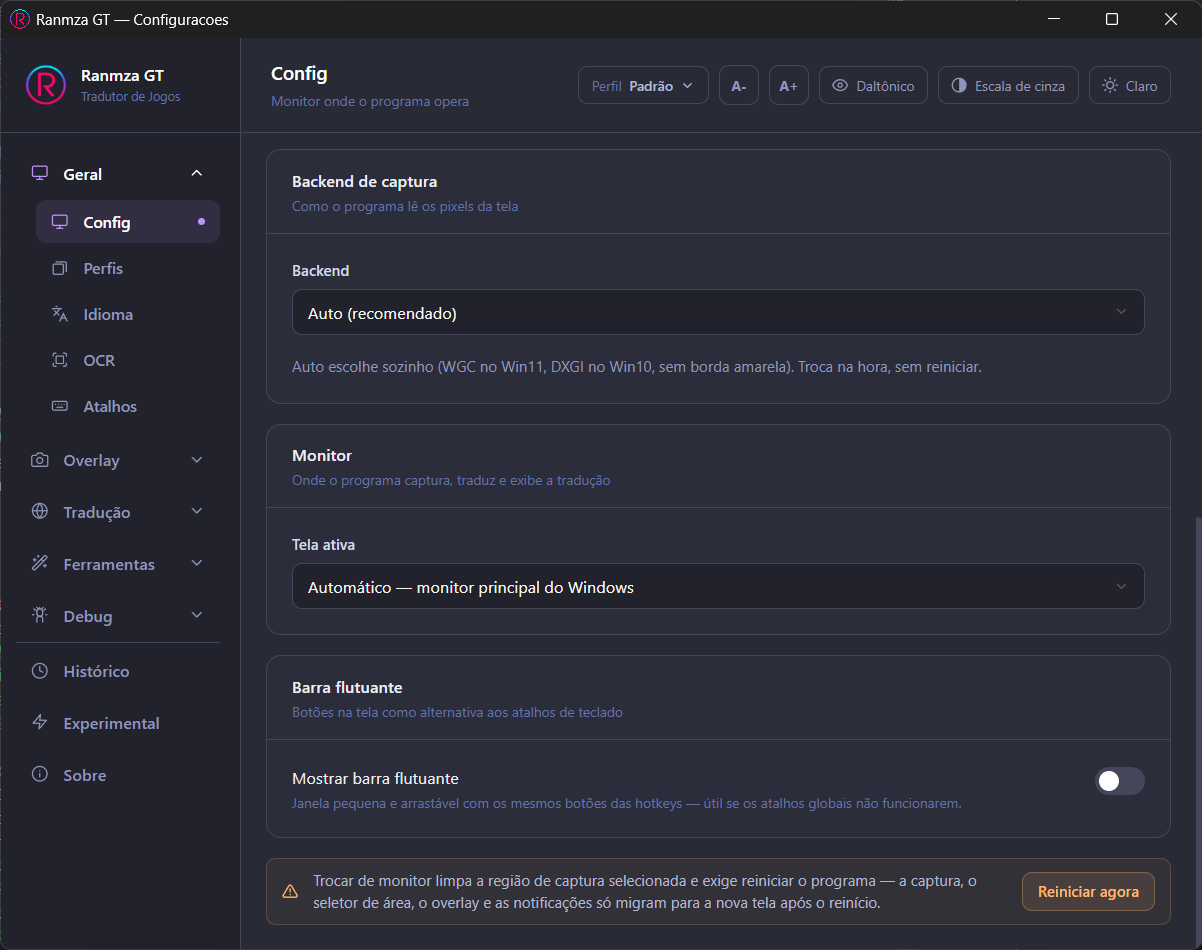
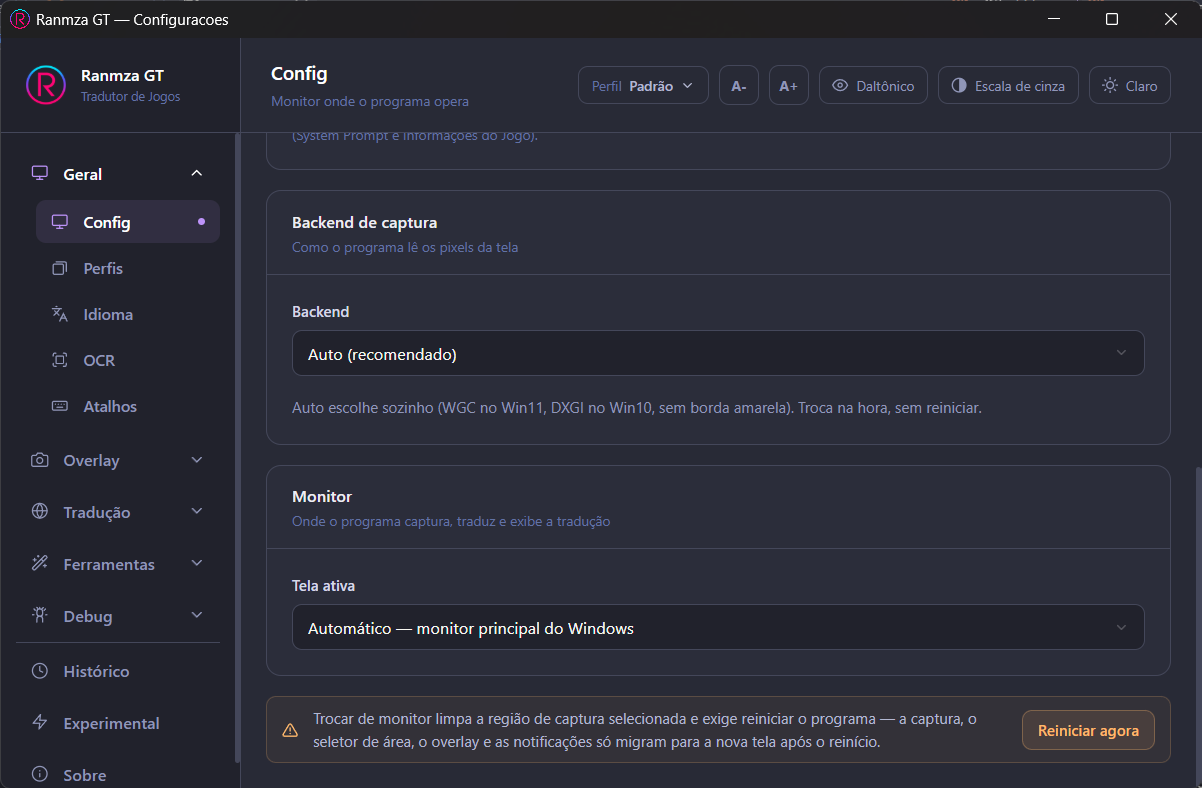
docs(manual): barra flutuante mudou de aba (Config -> Atalhos) + screenshots atualizadas
Reflete a mudanca no app: o toggle "Mostrar barra flutuante" saiu do
Config e virou o primeiro card da aba Atalhos. Atualiza as 4 mencoes de
localizacao no PT/EN e troca 3 screenshots (config sem o card, atalhos
com o card no topo, instalacao manual do inpaint).

diff --git a/_src/manual_en.md b/_src/manual_en.md
@@ -65,7 +65,7 @@ The left-hand menu groups options by subject. For this quick setup you only touc
 
 | Menu | What's inside |
 |---|---|
-| **General** | Config (monitor, theme, floating toolbar), Profiles, Language, OCR and Shortcuts |
+| **General** | Config (monitor, theme), Profiles, Language, OCR and Shortcuts (floating toolbar) |
 | **Overlay** | How the translation looks on screen: Capture, Subtitles and Web |
 | **Translation** | Translators (engine and API keys) and AI (prompts and parameters) |
 | **Tools** | Inpaint (erase the original text) and Lab (test preprocessing) |
@@ -164,7 +164,7 @@ The translation appears over the game, in the position of the original text, and
 
 ### 2.7 Plan B: the floating bar
 
-Some games swallow the numpad keys, and NumLock sometimes gets in the way. For those cases, turn on **Show floating toolbar** in *General › Config*: a small window with the same commands as buttons, fired with the mouse.
+Some games swallow the numpad keys, and NumLock sometimes gets in the way. For those cases, turn on **Show floating toolbar** in *General › Shortcuts*: a small window with the same commands as buttons, fired with the mouse.
 
 <p align="center"><img src="media/barra-flutuante.png" alt="Ranmza GT floating bar" width="560"></p>
 
@@ -232,7 +232,7 @@ Picked the wrong mode? Just press the other hotkey right after — the previous 
 
 ### Don't trust keyboard shortcuts?
 
-Enable the **floating toolbar** in **General › Config**. It's a compact window that stays **always on top of any window** — even fullscreen games (borderless) — with the main commands at hand: select area, translate, translate with Vision, clear, toggle Subtitle Mode, select subtitle area, and show/hide areas (hover over a button to see its name).
+Enable the **floating toolbar** in **General › Shortcuts**. It's a compact window that stays **always on top of any window** — even fullscreen games (borderless) — with the main commands at hand: select area, translate, translate with Vision, clear, toggle Subtitle Mode, select subtitle area, and show/hide areas (hover over a button to see its name).
 
 Three advantages:
 
@@ -569,7 +569,7 @@ The page can also be opened in any browser on the local network (phone, second m
 → Go to **General › Language** and click the warning to install the necessary Windows language package.
 
 ##### "I pressed the hotkey and nothing happened"
-→ Check if the settings window isn't in the foreground (hotkeys only work with the game in focus). If still nothing, enable the **floating toolbar** (**General › Config**) and use its buttons.
+→ Check if the settings window isn't in the foreground (hotkeys only work with the game in focus). If still nothing, enable the **floating toolbar** (**General › Shortcuts**) and use its buttons.
 
 ##### "Hotkeys don't work in some games (even with game in focus)"
 → Some games run with elevated privileges (Administrator) and therefore **block Ranmza GT's global hotkey registration**. In that case, **run Ranmza GT as Administrator** (right-click the `.exe` → *Run as administrator*) — then it can activate hotkeys over the game. To avoid repeating every time, check *Run this program as an administrator* in **Properties → Compatibility** of the executable. (Alternative: use the **floating toolbar**, which fires actions by mouse click and doesn't depend on keyboard hotkeys.)
@@ -648,7 +648,6 @@ Where the program runs.
   - *WGC (Windows 11)* — Windows Graphics Capture.
   - *DXGI (Windows 10)* — Desktop Duplication; it exists so Windows 10 doesn't draw the yellow border around the captured monitor.
 - **Monitor → Active display** — which monitor the program captures, translates and displays on. *Automatic* uses the Windows primary monitor. Switching monitors **clears the saved capture area** and **requires a restart** (a "Restart now" button appears at the bottom of the tab).
-- **Floating toolbar → Show floating toolbar** — turns on the always-visible button window (see step 2.7). It also opens and closes with the `NumpadSubtract` hotkey, and it **remembers the last position** you left it in.
 
 ### General › Profiles
 
@@ -691,7 +690,9 @@ Which engine recognizes the text, and how it groups lines.
 
 ### General › Shortcuts
 
-<p align="center"><img src="media/geral-atalhos.png" alt="General › Shortcuts tab" width="820"></p>
+<p align="center"><img src="media/geral-atalhos.png" alt="General › Shortcuts tab — floating toolbar and global shortcuts" width="820"></p>
+
+- **Floating toolbar → Show floating toolbar** — turns on the always-visible button window (see step 2.7). It also opens and closes with the `NumpadSubtract` hotkey, and it **remembers the last position** you left it in.
 
 Ten global shortcuts — they work with the game focused, and are disabled while the settings window is in the foreground. Each has the **Ctrl / Alt / Shift** modifiers plus a main key, picked from the **Numpad**, **Function** (F1–F12), **Navigation** (arrows, Insert, Delete, Home, End, PageUp, PageDown), **Numbers** and **Letters** groups.
 

diff --git a/_src/manual.md b/_src/manual.md
@@ -86,7 +86,7 @@ O menu da esquerda agrupa as opções por assunto. Nesta configuração rápida 
 
 | Menu | O que tem dentro |
 |---|---|
-| **Geral** | Config (monitor, tema, barra flutuante), Perfis, Idioma, OCR e Atalhos |
+| **Geral** | Config (monitor, tema), Perfis, Idioma, OCR e Atalhos (barra flutuante) |
 | **Overlay** | Aparência da tradução na tela: Captura, Legenda e Web |
 | **Traducao** | Tradutores (motor e chaves de API) e I.A (prompts e parâmetros) |
 | **Ferramentas** | Inpaint (apagar o texto original) e Lab (testar pré-processamento) |
@@ -232,7 +232,7 @@ tempo. Para tirá-la na hora, aperte **`NumpadDecimal`** (a vírgula do teclado 
 ### 2.7 Plano B: a barra flutuante
 
 Alguns jogos "engolem" as teclas do Numpad, e às vezes o NumLock atrapalha. Para esses casos,
-ative **Mostrar barra flutuante** em *Geral › Config*: uma janelinha com os mesmos comandos em
+ative **Mostrar barra flutuante** em *Geral › Atalhos*: uma janelinha com os mesmos comandos em
 botões, disparados por clique do mouse.
 
 <p align="center"><img src="media/barra-flutuante.png" alt="Barra flutuante do Ranmza GT" width="560"></p>
@@ -325,7 +325,7 @@ Errou o modo? Aperte o outro atalho na sequência — a tradução anterior é l
 
 ### Não confia nos atalhos do teclado?
 
-Ative a **barra flutuante** em **Geral › Config** e dispare tudo por clique do mouse. Ela fica
+Ative a **barra flutuante** em **Geral › Atalhos** e dispare tudo por clique do mouse. Ela fica
 sempre acima de qualquer janela, move-se livremente entre monitores e é o plano B para quando o
 jogo "engole" as teclas do Numpad. Os nove botões estão explicados no
 [passo 2.7](/Manual/configuracao-rapida.md).
@@ -865,7 +865,7 @@ idioma sem instalar nada — outro motivo para trocar de motor em **Geral › OC
 
 ##### "Apertei o atalho e nada acontece"
 → Confira se a janela de configuração não está em primeiro plano (os atalhos só funcionam com
-o jogo em foco). Se mesmo assim não funcionar, ative a **barra flutuante** (**Geral › Config**) e use
+o jogo em foco). Se mesmo assim não funcionar, ative a **barra flutuante** (**Geral › Atalhos**) e use
 os botões dela.
 
 ##### "Os atalhos não funcionam em alguns jogos (mesmo com o jogo em foco)"
@@ -1009,9 +1009,9 @@ Onde o programa opera.
   **Mantém** o monitor, as áreas selecionadas, as chaves de API, os prompts (System Prompt e
   Informações do Jogo) e a preferência de aviso de atualização.
 
-<p align="center"><img src="media/geral-config-monitor.png" alt="Aba Geral › Config — backend, monitor e barra flutuante" width="820"></p>
+<p align="center"><img src="media/geral-config-monitor.png" alt="Aba Geral › Config — backend e monitor" width="820"></p>
 
-<p align="center"><i>Rolando a mesma aba: <b>Backend de captura</b>, <b>Monitor</b> e <b>Barra flutuante</b>.</i></p>
+<p align="center"><i>Rolando a mesma aba: <b>Backend de captura</b> e <b>Monitor</b>.</i></p>
 
 - **Backend de captura → Backend** — como o programa lê os pixels da tela:
   - *Auto (recomendado)* — escolhe sozinho: WGC no Windows 11, DXGI no Windows 10, sem a borda
@@ -1022,9 +1022,6 @@ Onde o programa opera.
 - **Monitor → Tela ativa** — em qual monitor o programa captura, traduz e exibe. *Automático*
   usa o monitor principal do Windows. Trocar de monitor **limpa a área de captura** salva e
   **exige reiniciar** (botão "Reiniciar agora" aparece no rodapé da aba).
-- **Barra flutuante → Mostrar barra flutuante** — liga a janelinha de botões sempre visível
-  (veja o passo 2.7). Também abre e fecha pelo atalho `NumpadSubtract`, e ela **lembra a última
-  posição** em que você a deixou.
 
 ### Geral › Perfis
 
@@ -1096,7 +1093,11 @@ Qual motor reconhece o texto na tela.
 
 ### Geral › Atalhos
 
-<p align="center"><img src="media/geral-atalhos.png" alt="Aba Geral › Atalhos" width="820"></p>
+<p align="center"><img src="media/geral-atalhos.png" alt="Aba Geral › Atalhos — barra flutuante e atalhos globais" width="820"></p>
+
+- **Barra flutuante → Mostrar barra flutuante** — liga a janelinha de botões sempre visível
+  (veja o passo 2.7). Também abre e fecha pelo atalho `NumpadSubtract`, e ela **lembra a última
+  posição** em que você a deixou.
 
 Dez atalhos globais — funcionam com o jogo em foco e ficam desativados enquanto a janela de
 configuração está em primeiro plano. Cada um tem os modificadores **Ctrl / Alt / Shift** e uma

diff --git a/Manual/referencia-completa-todas-as-abas.md b/Manual/referencia-completa-todas-as-abas.md
@@ -27,9 +27,9 @@ Onde o programa opera.
   **Mantém** o monitor, as áreas selecionadas, as chaves de API, os prompts (System Prompt e
   Informações do Jogo) e a preferência de aviso de atualização.
 
-<p align="center"><img src="media/geral-config-monitor.png" alt="Aba Geral › Config — backend, monitor e barra flutuante" width="820"></p>
+<p align="center"><img src="media/geral-config-monitor.png" alt="Aba Geral › Config — backend e monitor" width="820"></p>
 
-<p align="center"><i>Rolando a mesma aba: <b>Backend de captura</b>, <b>Monitor</b> e <b>Barra flutuante</b>.</i></p>
+<p align="center"><i>Rolando a mesma aba: <b>Backend de captura</b> e <b>Monitor</b>.</i></p>
 
 - **Backend de captura → Backend** — como o programa lê os pixels da tela:
   - *Auto (recomendado)* — escolhe sozinho: WGC no Windows 11, DXGI no Windows 10, sem a borda
@@ -40,9 +40,6 @@ Onde o programa opera.
 - **Monitor → Tela ativa** — em qual monitor o programa captura, traduz e exibe. *Automático*
   usa o monitor principal do Windows. Trocar de monitor **limpa a área de captura** salva e
   **exige reiniciar** (botão "Reiniciar agora" aparece no rodapé da aba).
-- **Barra flutuante → Mostrar barra flutuante** — liga a janelinha de botões sempre visível
-  (veja o passo 2.7). Também abre e fecha pelo atalho `NumpadSubtract`, e ela **lembra a última
-  posição** em que você a deixou.
 
 ## Geral › Perfis
 
@@ -114,7 +111,11 @@ Qual motor reconhece o texto na tela.
 
 ## Geral › Atalhos
 
-<p align="center"><img src="media/geral-atalhos.png" alt="Aba Geral › Atalhos" width="820"></p>
+<p align="center"><img src="media/geral-atalhos.png" alt="Aba Geral › Atalhos — barra flutuante e atalhos globais" width="820"></p>
+
+- **Barra flutuante → Mostrar barra flutuante** — liga a janelinha de botões sempre visível
+  (veja o passo 2.7). Também abre e fecha pelo atalho `NumpadSubtract`, e ela **lembra a última
+  posição** em que você a deixou.
 
 Dez atalhos globais — funcionam com o jogo em foco e ficam desativados enquanto a janela de
 configuração está em primeiro plano. Cada um tem os modificadores **Ctrl / Alt / Shift** e uma

diff --git a/en/Manual/complete-reference-all-tabs.md b/en/Manual/complete-reference-all-tabs.md
@@ -21,7 +21,6 @@ Where the program runs.
   - *WGC (Windows 11)* — Windows Graphics Capture.
   - *DXGI (Windows 10)* — Desktop Duplication; it exists so Windows 10 doesn't draw the yellow border around the captured monitor.
 - **Monitor → Active display** — which monitor the program captures, translates and displays on. *Automatic* uses the Windows primary monitor. Switching monitors **clears the saved capture area** and **requires a restart** (a "Restart now" button appears at the bottom of the tab).
-- **Floating toolbar → Show floating toolbar** — turns on the always-visible button window (see step 2.7). It also opens and closes with the `NumpadSubtract` hotkey, and it **remembers the last position** you left it in.
 
 ## General › Profiles
 
@@ -64,7 +63,9 @@ Which engine recognizes the text, and how it groups lines.
 
 ## General › Shortcuts
 
-<p align="center"><img src="media/geral-atalhos.png" alt="General › Shortcuts tab" width="820"></p>
+<p align="center"><img src="media/geral-atalhos.png" alt="General › Shortcuts tab — floating toolbar and global shortcuts" width="820"></p>
+
+- **Floating toolbar → Show floating toolbar** — turns on the always-visible button window (see step 2.7). It also opens and closes with the `NumpadSubtract` hotkey, and it **remembers the last position** you left it in.
 
 Ten global shortcuts — they work with the game focused, and are disabled while the settings window is in the foreground. Each has the **Ctrl / Alt / Shift** modifiers plus a main key, picked from the **Numpad**, **Function** (F1–F12), **Navigation** (arrows, Insert, Delete, Home, End, PageUp, PageDown), **Numbers** and **Letters** groups.
 

diff --git a/en/Manual/quick-setup.md b/en/Manual/quick-setup.md
@@ -22,7 +22,7 @@ The left-hand menu groups options by subject. For this quick setup you only touc
 
 | Menu | What's inside |
 |---|---|
-| **General** | Config (monitor, theme, floating toolbar), Profiles, Language, OCR and Shortcuts |
+| **General** | Config (monitor, theme), Profiles, Language, OCR and Shortcuts (floating toolbar) |
 | **Overlay** | How the translation looks on screen: Capture, Subtitles and Web |
 | **Translation** | Translators (engine and API keys) and AI (prompts and parameters) |
 | **Tools** | Inpaint (erase the original text) and Lab (test preprocessing) |
@@ -121,7 +121,7 @@ The translation appears over the game, in the position of the original text, and
 
 ## 2.7 Plan B: the floating bar
 
-Some games swallow the numpad keys, and NumLock sometimes gets in the way. For those cases, turn on **Show floating toolbar** in *General › Config*: a small window with the same commands as buttons, fired with the mouse.
+Some games swallow the numpad keys, and NumLock sometimes gets in the way. For those cases, turn on **Show floating toolbar** in *General › Shortcuts*: a small window with the same commands as buttons, fired with the mouse.
 
 <p align="center"><img src="media/barra-flutuante.png" alt="Ranmza GT floating bar" width="560"></p>
 

diff --git a/en/Manual/common-problems-and-solutions.md b/en/Manual/common-problems-and-solutions.md
@@ -7,7 +7,7 @@
 → Go to **General › Language** and click the warning to install the necessary Windows language package.
 
 #### "I pressed the hotkey and nothing happened"
-→ Check if the settings window isn't in the foreground (hotkeys only work with the game in focus). If still nothing, enable the **floating toolbar** (**General › Config**) and use its buttons.
+→ Check if the settings window isn't in the foreground (hotkeys only work with the game in focus). If still nothing, enable the **floating toolbar** (**General › Shortcuts**) and use its buttons.
 
 #### "Hotkeys don't work in some games (even with game in focus)"
 → Some games run with elevated privileges (Administrator) and therefore **block Ranmza GT's global hotkey registration**. In that case, **run Ranmza GT as Administrator** (right-click the `.exe` → *Run as administrator*) — then it can activate hotkeys over the game. To avoid repeating every time, check *Run this program as an administrator* in **Properties → Compatibility** of the executable. (Alternative: use the **floating toolbar**, which fires actions by mouse click and doesn't depend on keyboard hotkeys.)

diff --git a/Manual/configuracao-rapida.md b/Manual/configuracao-rapida.md
@@ -31,7 +31,7 @@ O menu da esquerda agrupa as opções por assunto. Nesta configuração rápida 
 
 | Menu | O que tem dentro |
 |---|---|
-| **Geral** | Config (monitor, tema, barra flutuante), Perfis, Idioma, OCR e Atalhos |
+| **Geral** | Config (monitor, tema), Perfis, Idioma, OCR e Atalhos (barra flutuante) |
 | **Overlay** | Aparência da tradução na tela: Captura, Legenda e Web |
 | **Traducao** | Tradutores (motor e chaves de API) e I.A (prompts e parâmetros) |
 | **Ferramentas** | Inpaint (apagar o texto original) e Lab (testar pré-processamento) |
@@ -177,7 +177,7 @@ tempo. Para tirá-la na hora, aperte **`NumpadDecimal`** (a vírgula do teclado 
 ## 2.7 Plano B: a barra flutuante
 
 Alguns jogos "engolem" as teclas do Numpad, e às vezes o NumLock atrapalha. Para esses casos,
-ative **Mostrar barra flutuante** em *Geral › Config*: uma janelinha com os mesmos comandos em
+ative **Mostrar barra flutuante** em *Geral › Atalhos*: uma janelinha com os mesmos comandos em
 botões, disparados por clique do mouse.
 
 <p align="center"><img src="media/barra-flutuante.png" alt="Barra flutuante do Ranmza GT" width="560"></p>

diff --git a/en/Manual/basic-day-to-day-usage.md b/en/Manual/basic-day-to-day-usage.md
@@ -19,7 +19,7 @@ Picked the wrong mode? Just press the other hotkey right after — the previous 
 
 ## Don't trust keyboard shortcuts?
 
-Enable the **floating toolbar** in **General › Config**. It's a compact window that stays **always on top of any window** — even fullscreen games (borderless) — with the main commands at hand: select area, translate, translate with Vision, clear, toggle Subtitle Mode, select subtitle area, and show/hide areas (hover over a button to see its name).
+Enable the **floating toolbar** in **General › Shortcuts**. It's a compact window that stays **always on top of any window** — even fullscreen games (borderless) — with the main commands at hand: select area, translate, translate with Vision, clear, toggle Subtitle Mode, select subtitle area, and show/hide areas (hover over a button to see its name).
 
 Three advantages:
 

diff --git a/Manual/uso-basico-no-dia-a-dia.md b/Manual/uso-basico-no-dia-a-dia.md
@@ -28,7 +28,7 @@ Errou o modo? Aperte o outro atalho na sequência — a tradução anterior é l
 
 ## Não confia nos atalhos do teclado?
 
-Ative a **barra flutuante** em **Geral › Config** e dispare tudo por clique do mouse. Ela fica
+Ative a **barra flutuante** em **Geral › Atalhos** e dispare tudo por clique do mouse. Ela fica
 sempre acima de qualquer janela, move-se livremente entre monitores e é o plano B para quando o
 jogo "engole" as teclas do Numpad. Os nove botões estão explicados no
 [passo 2.7](/Manual/configuracao-rapida.md).

diff --git a/Manual/problemas-comuns-e-solucoes.md b/Manual/problemas-comuns-e-solucoes.md
@@ -13,7 +13,7 @@ idioma sem instalar nada — outro motivo para trocar de motor em **Geral › OC
 
 #### "Apertei o atalho e nada acontece"
 → Confira se a janela de configuração não está em primeiro plano (os atalhos só funcionam com
-o jogo em foco). Se mesmo assim não funcionar, ative a **barra flutuante** (**Geral › Config**) e use
+o jogo em foco). Se mesmo assim não funcionar, ative a **barra flutuante** (**Geral › Atalhos**) e use
 os botões dela.
 
 #### "Os atalhos não funcionam em alguns jogos (mesmo com o jogo em foco)"
